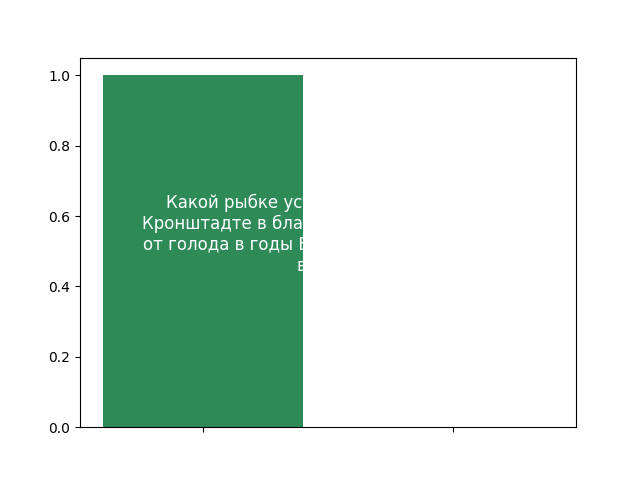
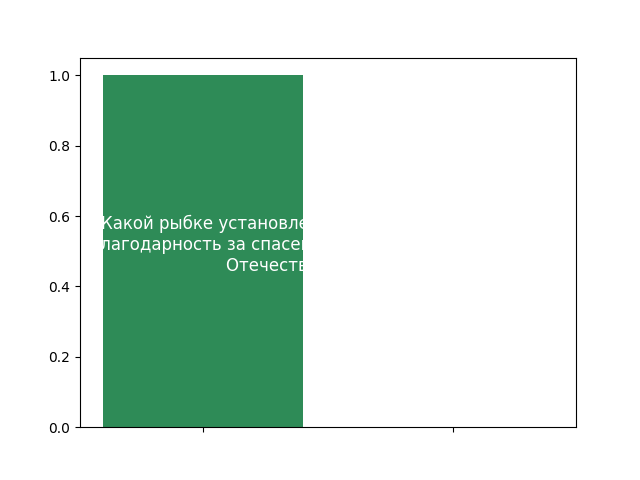
fix views def stat a little bit

Changed region(s): [[0.1562, 0.4062, 0.4688, 0.5625]]

diff --git a/magicflot/templates/magicflot/base.html b/magicflot/templates/magicflot/base.html
@@ -70,9 +70,9 @@
 {% endblock %}
 
 
-<footer class='gradient_bg fixed-bottom'>
-  
-  <div class='d-none d-md-block d-lg-block d-xl-block d-xxl-block'>
+<footer class='gradient_bg fixed-bottom d-none d-md-block d-lg-block d-xl-block d-xxl-block'> 
+	
+  <div class=''>
 	  <div class="d-flex justify-content-center py-1">
 	    <a class="nav-link white_milk" href='{% url "magicflot:game" %}'>Игра</a>
 	    <a class="nav-link white_milk" href='{% url "gallery:gallery" %}'>Галерея</a>
@@ -83,7 +83,12 @@
 	  </div>
   </div>
 
-  <div class='d-block d-md-none'>
+</footer>
+
+
+<footer class='gradient_bg d-block d-md-none'>
+
+  <div class=''>
 			<div class="d-flex justify-content-center py-1">
 		    <a class="nav-link white_milk" href='{% url "magicflot:game" %}'>Игра</a>
 		    <a class="nav-link white_milk" href='{% url "gallery:artgallery" %}'>Галерея</a>
@@ -94,8 +99,8 @@
 				<a class="nav-link white_milk" href='{% url "magicflot:stat" %}'>Статистика</a>
 	    	<a class="nav-link white_milk" href='{% url "magicflot:about" %}'>О проекте</a>
 		    <a class="nav-link white_milk" href='{% url "magicflot:blog" %}'>Блог</a>
-
 		  </div>
+
 	</div>
 
 	<center>

diff --git a/magicflot/views.py b/magicflot/views.py
@@ -117,11 +117,20 @@ def stat(request):
 	generate_pie_chart_result = generate_pie_chart(game_sessions)
 	generate_easy_result = generate_easy(game_sessions)
 	generate_hard_result = generate_hard(game_sessions)
-
+	generate_bar_result = generate_bar(game_sessions)
 
 	# Display bars about each question
 	bar_chart_dir = os.path.join(settings.BASE_DIR, 'static/bars')
 	bars = [f for f in os.listdir(bar_chart_dir) if f.endswith('.png')]
 	
+	context = {
+		'game_sessions_count': game_sessions_count, 
+		'all_questions': all_questions,
+		'bars': bars,
+		'generate_pie_chart_result':generate_pie_chart,
+		'generate_easy_result':generate_easy,
+		'generate_hard_result':generate_hard,
+		'generate_bar_result':generate_bar_result
+	}
 
-	return render(request, 'magicflot/stat.html', {'game_sessions_count': game_sessions_count, 'all_questions': all_questions, 'bars': bars, 'generate_pie_chart_result':generate_pie_chart,'generate_easy_result':generate_easy,'generate_hard_result':generate_hard})
+	return render(request, 'magicflot/stat.html', context)

diff --git a/magicflot/stat.py b/magicflot/stat.py
@@ -187,7 +187,7 @@ def generate_bar(game_sessions):
         false_values = data['False']
         x = range(len(labels))
 
-        wrapped_question = textwrap.fill(question, width=40)
+        wrapped_question = textwrap.fill(question, width=50)
 
         plt.figure()
         plt.bar(x, [true_values, false_values], color=['seagreen', 'crimson'])
